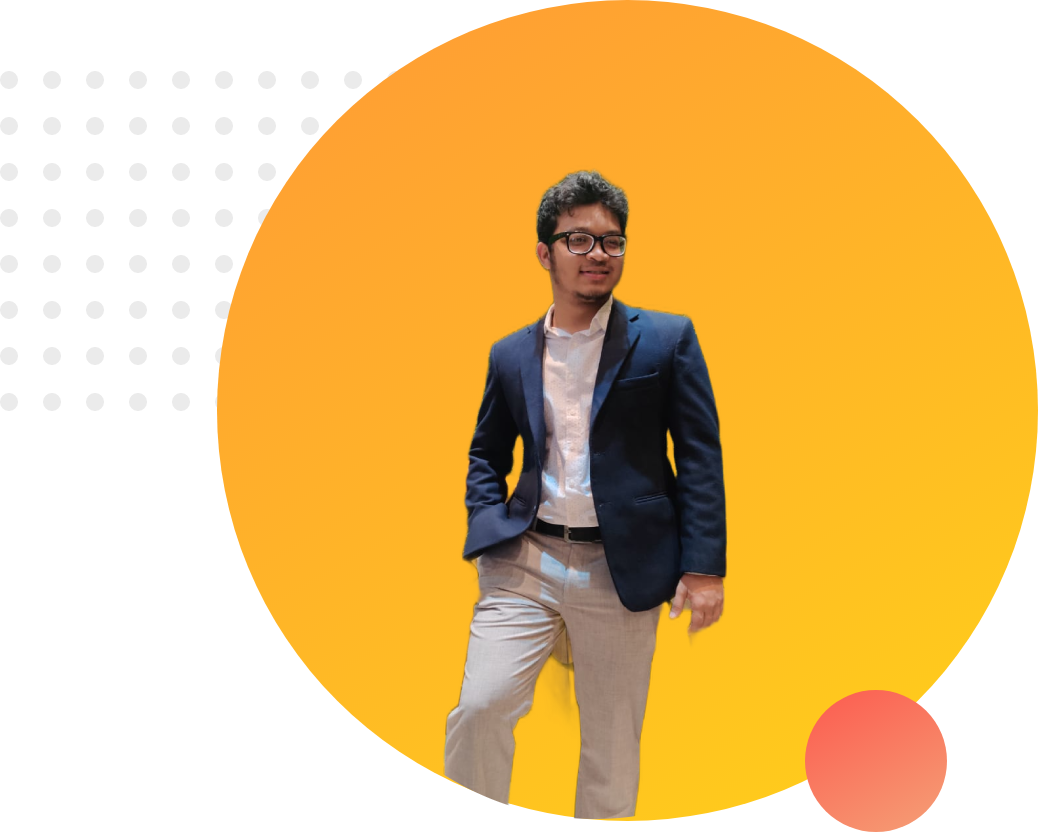
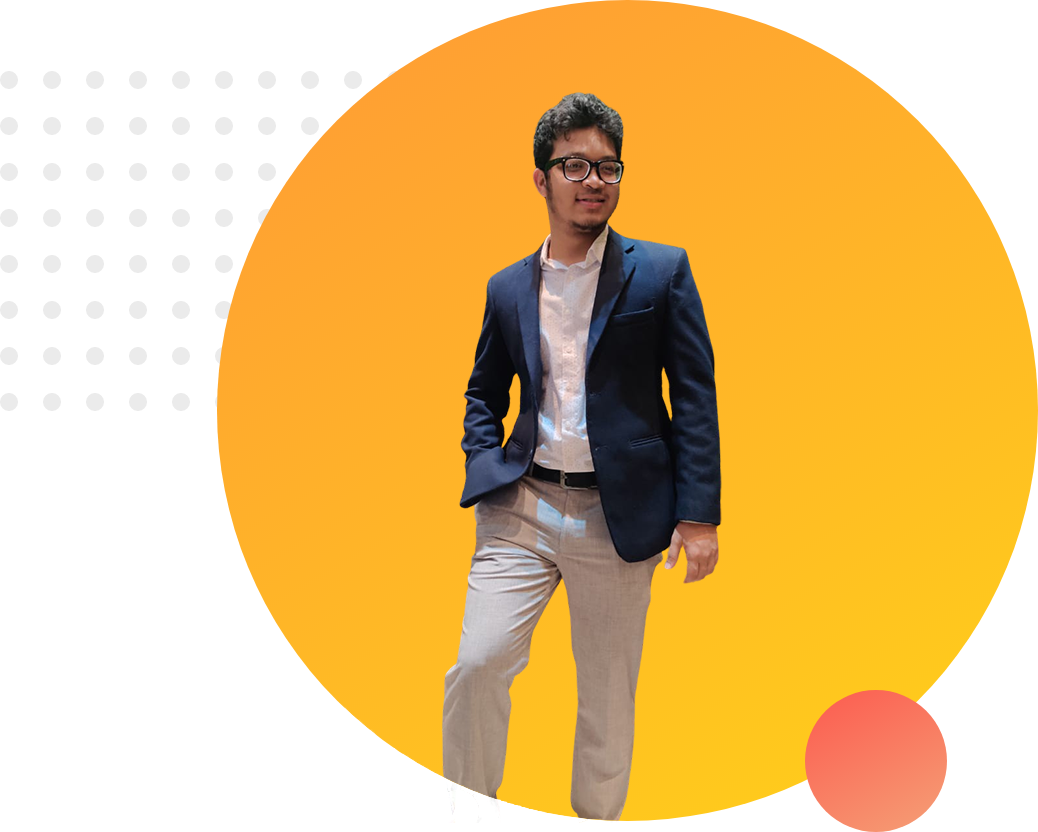
updated

Changed region(s): [[0.4008, 0.0938, 0.7091, 1.0]]

diff --git a/index.html b/index.html
@@ -38,7 +38,7 @@
     <br>
     <section class="medium-banner">
         <div class="half-width">
-            <img src="images/profile.png" alt="">
+            <img src="images/medium.png" alt="">
         </div>
         <div class="half-width">
             <h2>Dream Big</h2>
